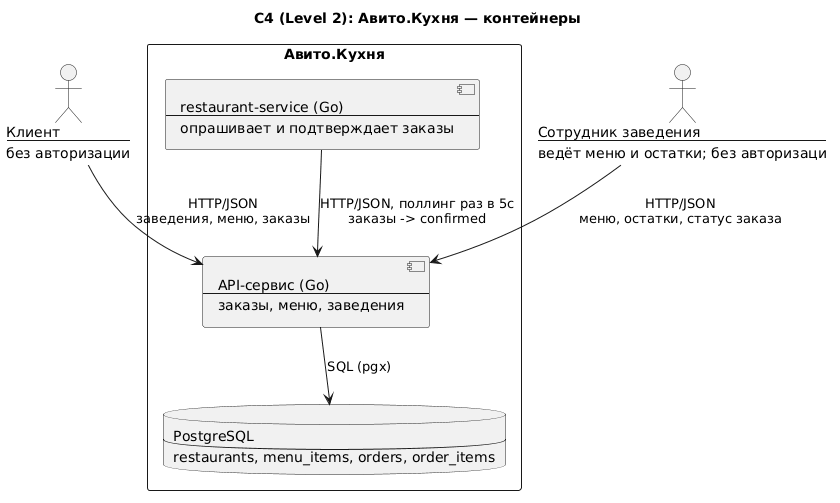
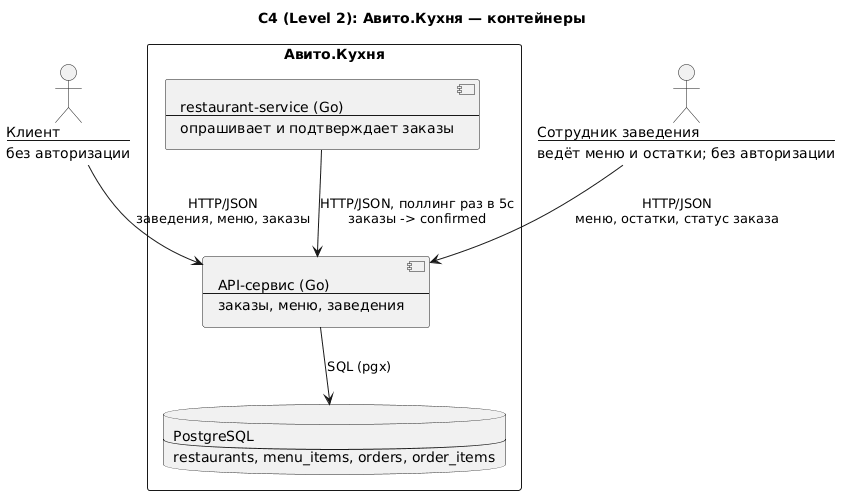
docs: add README, update c4 diagram

diff --git a/README.md b/README.md
@@ -1,0 +1,181 @@
+# Авито.Кухня
+
+MVP backend-сервиса доставки еды: заведения (рестораны, кафе, магазины)
+размещают меню и принимают заказы, клиенты выбирают заведение, формируют
+заказ и отслеживают его статус. Реализован единый API-сервис с двумя группами эндпоинтов — для клиента и для заведения (различие условное, по смыслу использования, авторизация не реализована).
+
+## Быстрый старт
+
+```bash
+cp .env.example .env
+docker compose up --build
+```
+
+Последовательно поднимаются `postgres`, `migrate`, `api`, `restaurant-service`.
+API доступен по адресу `http://localhost:8080`. `GET /health` проверяет
+доступность базы данных. `GET /docs` открывает интерактивную документацию (Swagger UI); спецификация встроена в исполняемый файл сервиса на этапе
+сборки, поэтому дополнительных файлов рядом с приложением не требуется.
+
+В базе данных сразу присутствует демонстрационное заведение (миграция
+`000002`, идентификатор `1`, две позиции меню) — запросы на создание заказа можно отправлять сразу, без предварительной настройки данных вручную.
+
+## Архитектура
+
+![C4: контейнеры](docs/c4-l2.png)
+
+Три контейнера:
+- **API-сервис** (Go, `net/http`, `pgx`) — реализует всю бизнес-логику:
+  заказы, меню, заведения. Классическая слоистая архитектура: `handlers`
+  (HTTP-слой, отвечает только за приём и разбор запроса) → `usecase`
+  (валидация и бизнес-правила, здесь же объявлены интерфейсы репозиториев)
+- `repository/postgres` (SQL-запросы и транзакции).
+- **restaurant-service** — самостоятельный Go-модуль с собственным `go. mod`  и `Dockerfile`. Каждые 5 секунд опрашивает эндпоинт
+  `GET /restaurants/{id}/orders` и подтверждает новые заказы через
+  `PATCH /orders/{id}/status`. Выбран polling вместо webhook, так как он не  требует реализации встречного API на стороне заведения — задание допускает оба варианта.
+- **PostgreSQL** — единственное хранилище данных, доступ к которому
+  осуществляется исключительно через API-сервис.
+
+## Пользовательские сценарии (CJM)
+
+**Клиент.** Просмотр списка заведений → выбор меню → формирование заказа →
+оформление, с двумя проверяемыми исключительными ситуациями (пустой заказ,
+недостаточный остаток товара):
+
+![CJM: клиент](docs/cjm-user.png)
+
+**Заведение.** Ручное управление меню и остатками, а также автоматическая
+обработка заказов силами `restaurant-service`:
+
+![CJM: заведение](docs/cjm-restaurant.png)
+
+## Схема базы данных
+
+Миграции расположены в `migrations/` и применяются последовательно через
+`golang-migrate` (`000001_init_schema` — создание таблиц,
+`000002_seed_demo_restaurant` — демонстрационные данные).
+
+```
+restaurants ──< menu_items ──< order_items >── orders
+```
+
+- `restaurants` — заведения.
+- `menu_items` — позиции меню; остаток (`stock`) хранится непосредственно
+  на уровне позиции, без разбивки на отдельные ингредиенты.
+- `orders` — заказ, поле `status` принимает значения `new`, `confirmed`
+  или `cancelled`.
+- `order_items` — позиции заказа; поле `price_cents` фиксирует цену на
+  момент оформления заказа, поэтому последующее изменение цены в меню не
+  затрагивает уже созданные заказы.
+
+Списание остатка при создании заказа выполняется одним атомарным запросом
+(`UPDATE ... WHERE stock >= $1`) внутри транзакции, а не последовательным
+чтением и записью значения из кода приложения. Это исключает ситуацию, при
+которой два параллельных заказа могли бы одновременно списать последнюю
+единицу товара (проверено интеграционным тестом с реальным конкурентным
+доступом, см. раздел «Тестирование»).
+
+## API
+
+Полное описание API находится в `api/openapi.yaml`. Интерактивная версия,
+позволяющая отправлять запросы напрямую из браузера, доступна по адресу
+`GET /docs` после запуска. Эндпоинты размечены тегами `client`,
+`restaurant` и `system` в соответствии с двумя API, которые требует задание.
+
+## Тестирование
+
+Юнит тесты выполняются без Docker и без базы данных:
+
+```bash
+go test ./...
+```
+
+или
+
+```bash
+make test
+```
+
+Дополнительные параметры:
+
+```bash
+go test ./... -v                             # подробный вывод
+go test ./internal/usecase/order/...         # только один пакет
+go test ./... -run TestService_CreateOrder   # тесты, чьё имя соответствует шаблону
+go test ./... -cover                         # доля покрытия по пакетам
+```
+
+Юнит тестами покрыты пакет `internal/domain` и оба сервиса
+usecase-слоя (`order`, `menu`) — проверяется валидация входных данных и
+корректность обращения к репозиторию через ручные заглушки, без обращения
+к базе данных.
+
+### Интеграционные тесты
+
+Используют отдельную базу данных (`docker-compose.e2e.yaml`, порт `5433`),
+не пересекающуюся с базой данных приложения.
+
+```bash
+make test-integration
+```
+
+Файлы отмечены тегом сборки `//go:build integration` — при обычном запуске
+`go test ./...` они не компилируются и не выполняются. Команды для ручного
+запуска:
+
+```bash
+docker compose -f docker-compose.e2e.yaml up -d postgres-e2e
+docker compose -f docker-compose.e2e.yaml run --rm migrate-e2e
+TEST_DATABASE_URL="postgres://avito:avito@localhost:5433/avito_kitchen_e2e?sslmode=disable" \
+  go test -tags=integration -count=1 ./...
+docker compose -f docker-compose.e2e.yaml down -v
+```
+
+Что проверяется:
+- `internal/repository/postgres` — работа реальных транзакций: атомарное
+  списание остатка, откат изменений при нехватке товара, преобразование
+  нарушения внешнего ключа `restaurant_id` в ошибку `ErrRestaurantNotFound`.
+  Отдельный тест выполняет 20 параллельных вызовов `CreateOrder` для
+  позиции с остатком `5` и проверяет, что ровно 5 запросов завершились
+  успешно, 15 — ошибкой `ErrMenuItemOutOfStock`, а итоговый остаток равен
+  `0`.
+- `internal/server` — прохождение запроса через весь HTTP-путь (`handlers`
+  → `usecase` → `postgres` → база данных) с использованием `httptest.Server`.
+
+### Сквозные (end-to-end) тесты
+
+Собирают образ `api` из того же `Dockerfile`, что используется при
+развёртывании, поднимают контейнер и отправляют запросы снаружи по HTTP на
+опубликованный порт `8090` — так же, как это делал бы внешний клиент.
+
+```bash
+make test-e2e
+```
+
+Файл `e2e/order_journey_test.go` (тег `//go:build e2e`) воспроизводит тот
+же сценарий (список заведений → меню → заказ, превышающий остаток → корректный
+заказ → подтверждение заведением → проверка итогового статуса) уже против
+собранного и запущенного контейнера, используя демонстрационное заведение
+из миграции `000002`.
+
+## Статический анализ кода
+
+```bash
+make lint-docker
+```
+
+Выполняет `golangci-lint` внутри Docker-контейнера; конфигурация — в
+[.golangci.yml](.golangci.yml).
+
+## Осознанные упрощения MVP
+
+- **Остаток хранится на уровне позиции меню, а не отдельного ингредиента.**
+  Модель с общими ингредиентами между блюдами не реализована. При
+  необходимости может быть добавлена через отдельную таблицу `ingredients` и связь «многие ко многим».
+- **Статус заказа принимает только три значения** (`new`, `confirmed`,
+  `cancelled`), без промежуточных состояний вроде «готовится» или
+  «доставлено» — площадка не занимается организацией доставки, заведению
+  достаточно подтвердить или отменить заказ.
+- **Список заведений закрытый, эндпоинт для их создания не реализован.**
+  Заведения добавляются через миграцию с демонстрационными данными, а не
+  через самостоятельную регистрацию в API — в соответствии с условием
+  задания о закрытом списке подключённых заведений.
